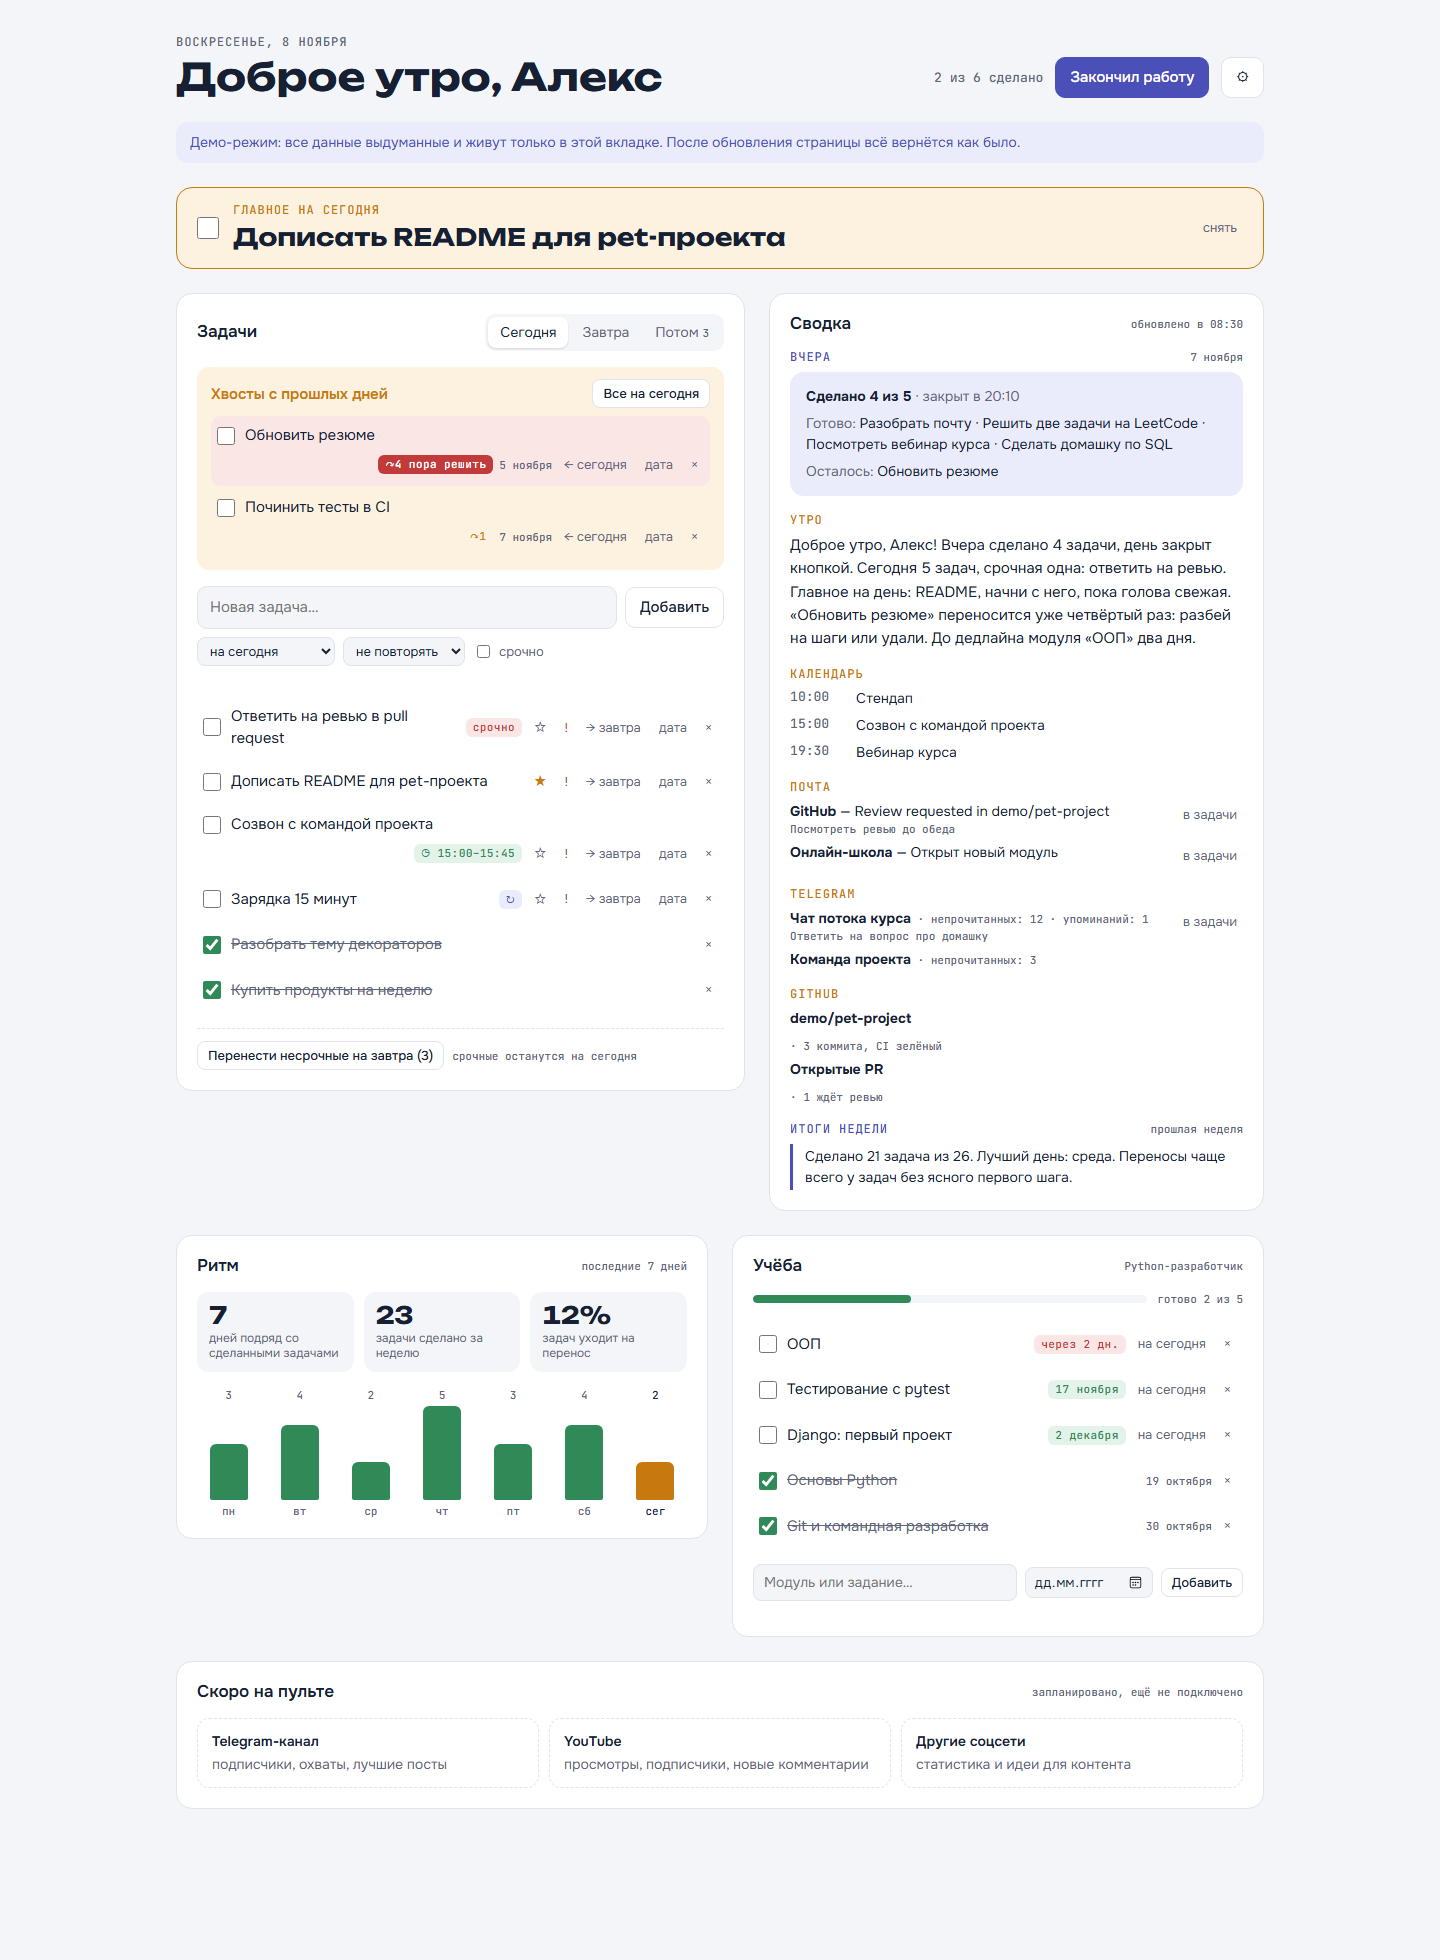
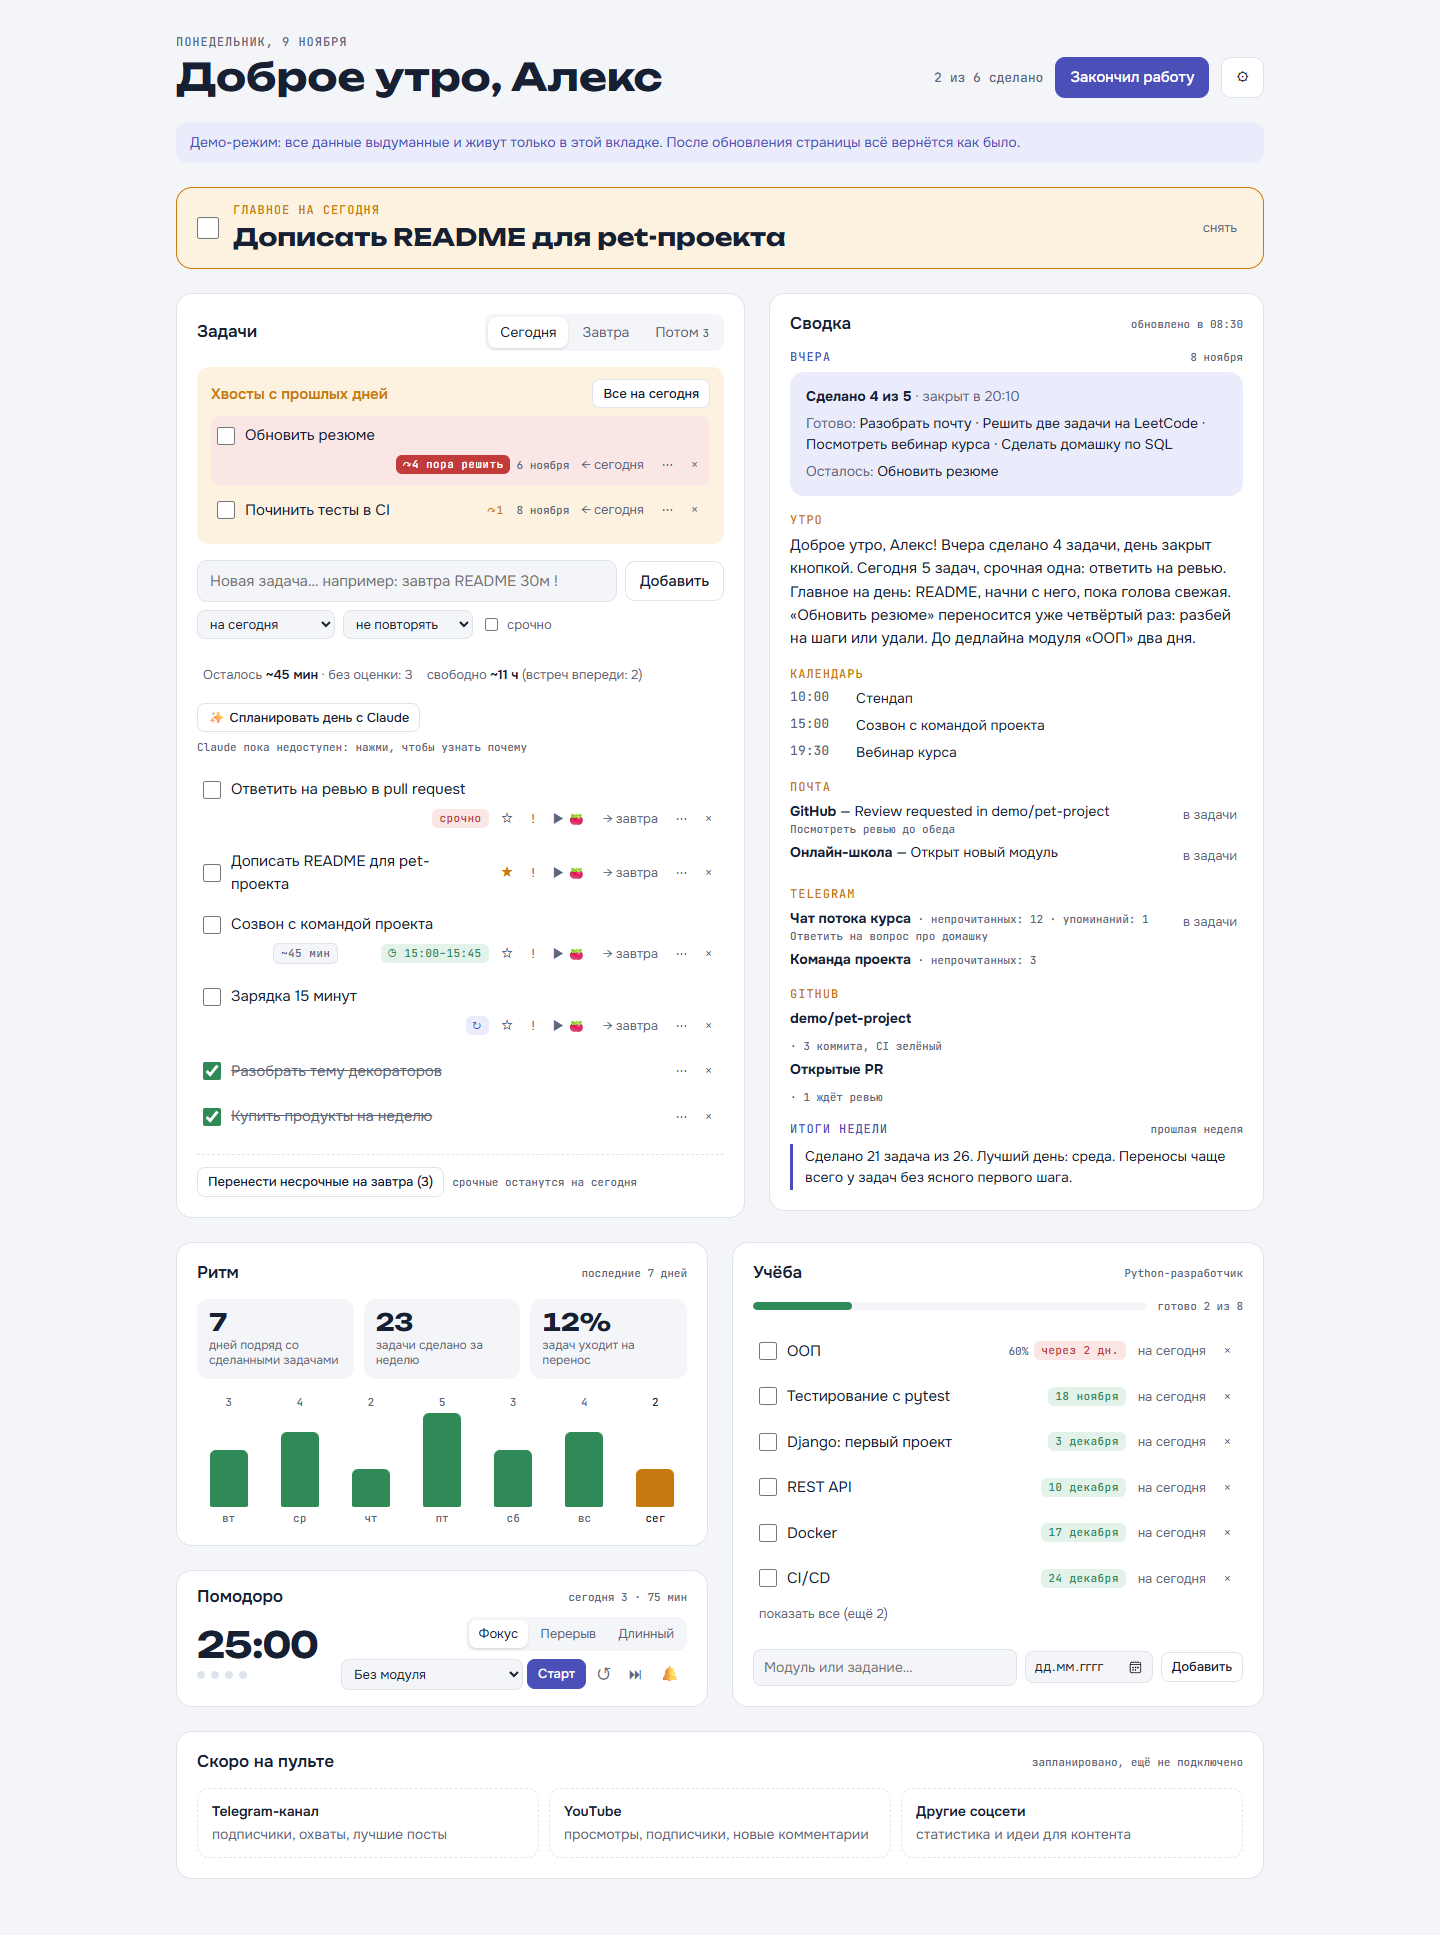
Rename to Day Console in the English README and refresh the screenshot

diff --git a/README.ru.md b/README.ru.md
@@ -16,7 +16,27 @@
 ## Что умеет
 
 - **Задачи.** Сегодня, завтра и бэклог без даты, пометка «срочно», перенос по одной и всех
-  несрочных сразу, хвосты с прошлых дней, повторяющиеся задачи.
+  несрочных сразу, хвосты с прошлых дней. Редкие действия спрятаны в меню «⋯».
+- **Правка.** Название меняется прямо в строке (Enter сохраняет, Esc отменяет), событие в
+  Google Календаре переименовывается вместе с задачей. Повторяющиеся задачи тоже.
+- **Заметки.** Заметка под задачей серым шрифтом, ссылки в ней кликабельны.
+- **Свой порядок.** Стрелки ↑↓ двигают задачу в списке; сделанные уходят вниз, срочные вверх.
+- **Отмена удаления.** После удаления задачи или повтора 7 секунд можно нажать «Вернуть»:
+  задача вернётся со всеми полями и событием в календаре.
+- **Повторы.** Каждый день, по будням, по выходным, по выбранным дням, раз в 2 недели и раз
+  в месяц (в том числе в последний день месяца). В «Потом» видна ближайшая дата.
+- **Умный ввод.** Дата, оценка, срочность и повтор в начале или в конце новой задачи
+  распознаются сами: `Позвонить в банк завтра 30м !`, `Спортзал раз в 2 недели`. Под полем
+  видно, что распознано.
+- **Оценки и загрузка.** У задачи можно указать оценку времени. Над списком видно, сколько
+  осталось работы и сколько свободного времени до 22:00 с учётом встреч, и предупреждение,
+  если день не влезает.
+- **План дня с Claude.** На сегодня или на завтра Claude предлагает порядок, оценки, что
+  перенести и что взять. У каждого изменения галочка: применить выбранное или попросить
+  другой вариант.
+- **Открыть день снова.** Закрытый день можно открыть, задачи, перенесённые при закрытии,
+  вернутся на сегодня.
+- **Главное на завтра.** Звёздочка у задачи на завтра закрепляет её на вкладке «Завтра».
 - **Застрявшие задачи.** Задача, перенесённая три раза и больше, подсвечивается, и Claude
   может разбить её на маленькие шаги.
 - **Календарь.** Задаче можно назначить время: появится событие в Google Календаре, которое
@@ -34,6 +54,8 @@
 - **Помодоро.** 25/5 минут и длинный перерыв после четырёх кругов, с привязкой к модулю курса.
   Сигнал заранее ставится на часы аудиосистемы, поэтому звучит вовремя даже в фоновой вкладке,
   а плашка во весь экран держится, пока её не закроешь. Счёт за день сохраняется.
+  Компактный виджет стоит под «Ритмом». Помидор можно запустить и на задачу: таймер тикает в
+  её строке, а помидоры вычитаются из оценки.
 - **Без личных данных в коде.** Имя и курс задаются на самом пульте и хранятся в базе
   артефакта.
 
@@ -44,7 +66,7 @@ flowchart LR
     user([Пользователь]) --> page[index.html<br>артефакт Claude]
     page <--> db[(База артефакта)]
     page --> cal[Коннектор Google Календаря]
-    page --> llm[Claude: разбить задачу]
+    page --> llm[Claude: разбить задачу, план дня]
     agents[Агенты по расписанию<br>prompts/] <--> db
     agents --> sources[Календарь, Gmail, GitHub CLI]
     agents --> digest[telegram_digest.py]

diff --git a/README.md b/README.md
@@ -1,8 +1,9 @@
-# Pult Dnya
+# Day Console
 
 [Русская версия](README.ru.md)
 
-A personal daily dashboard that lives inside Claude. Tasks are managed on a single page;
+A personal daily dashboard that lives inside Claude (its Russian interface calls it
+«Пульт дня», "Day Console"). Tasks are managed on a single page;
 scheduled Claude agents collect the morning brief from the calendar, mail, Telegram and
 GitHub, close forgotten days and write weekly and monthly reviews.
 
@@ -16,7 +17,28 @@ demo mode with made-up data kept in memory, so it can be tried without an accoun
 ## What it does
 
 - **Tasks.** Today, tomorrow and a dateless backlog; urgent flags; moving one task or all
-  non-urgent ones; leftovers from past days; recurring tasks.
+  non-urgent ones; leftovers from past days. Rarely used actions sit in a "⋯" menu.
+- **Editing.** Rename a task right in its row (Enter saves, Esc cancels); a linked
+  calendar event is renamed too. Recurring tasks can be renamed as well.
+- **Notes.** A note under a task, shown in grey, with clickable links.
+- **Manual order.** ↑↓ arrows move a task within the list; done tasks sink, urgent ones rise.
+- **Undo delete.** After deleting a task or a recurring rule, "Undo" brings it back for
+  seven seconds with all its fields and its calendar event.
+- **Recurring tasks.** Every day, weekdays, weekends, chosen weekdays, every two weeks, or
+  once a month (including the last day of the month); the backlog shows the next date.
+- **Smart input.** A date, an estimate, urgency and repetition typed at the start or end of
+  a new task are recognised (the parser understands Russian): `Позвонить в банк завтра 30м !`
+  ("call the bank tomorrow, 30 min, urgent"), `Спортзал раз в 2 недели` ("gym every two
+  weeks"). A preview shows what was understood.
+- **Estimates and load.** Each task can have an estimate. A line above the list shows how
+  much is left, how much free time remains until 22:00 after meetings, and warns when the
+  day does not fit.
+- **Plan the day with Claude.** For today or tomorrow, Claude proposes an order, estimates,
+  what to move and what to take on. Every change has a checkbox; apply the chosen ones or
+  ask for another option.
+- **Reopen the day.** A closed day can be reopened, and the tasks moved at closing come
+  back to today.
+- **Main task for tomorrow.** A star on a tomorrow task pins it on the Tomorrow tab.
 - **Stuck tasks.** A task moved three or more times gets highlighted, and Claude can split
   it into small steps.
 - **Calendar.** Give a task a time slot and it becomes a Google Calendar event that moves
@@ -34,6 +56,8 @@ demo mode with made-up data kept in memory, so it can be tried without an accoun
 - **Pomodoro timer.** 25/5 minutes with a long break after four rounds, linked to a course
   module. The alarm is scheduled on the audio clock in advance, so it rings on time even in a
   background tab, and a full-screen notice stays until dismissed. Daily counts are saved.
+  A compact widget sits under Rhythm. A pomodoro can also be started on a task: the timer
+  ticks in its row and finished rounds count towards the task's estimate.
 - **No personal data in the code.** The user's name and course are set on the page and kept
   in the artifact database.
 
@@ -44,7 +68,7 @@ flowchart LR
     user([User]) --> page[index.html<br>Claude artifact]
     page <--> db[(Artifact database)]
     page --> cal[Google Calendar connector]
-    page --> llm[Claude: split a task]
+    page --> llm[Claude: split a task, plan the day]
     agents[Scheduled agents<br>prompts/] <--> db
     agents --> sources[Calendar, Gmail, GitHub CLI]
     agents --> digest[telegram_digest.py]
